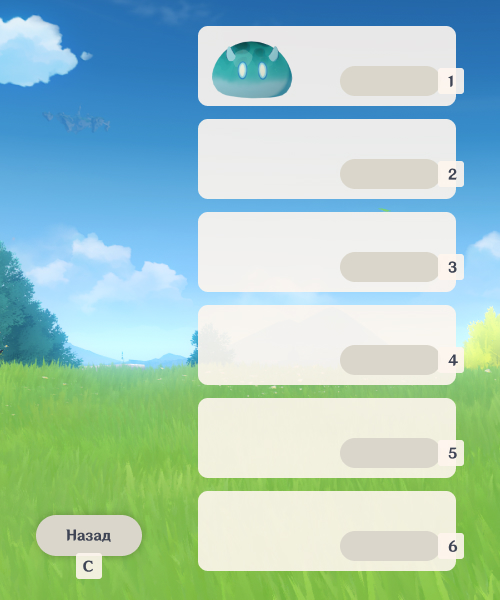
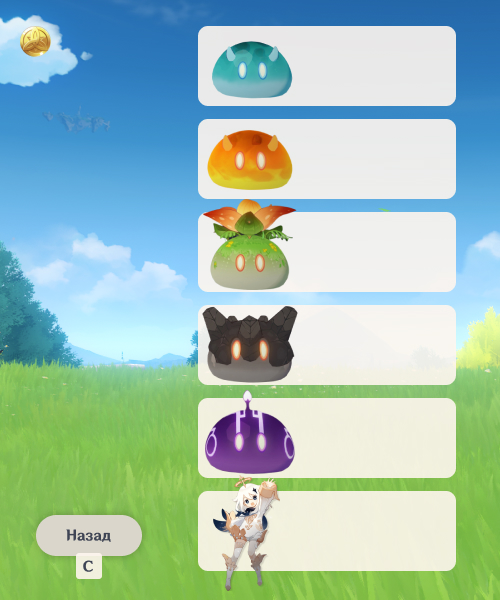
все скины и кнопки добавлены в магазин + доработка бд

diff --git a/start window.py b/start window.py
@@ -3,7 +3,7 @@ import sys
 
 import pygame
 
-from load_image import load_image, mora_in_db
+from functions import load_image, mora_in_db, mora_from_db, get_slime_name, get_skin_id, get_skins_bool
 
 pygame.font.init()
 pygame.init()
@@ -32,9 +32,12 @@ def start_screen():
                     shop_screen()
                 elif event.key == pygame.K_a:
                     play_screen()
+        count_mora = mora_from_db()
+        mora_count = myfont.render(f'{count_mora}', False, (254, 246, 238))
         image = pygame.image.load('data\\start.jpg')
         fon = pygame.transform.scale(image, (WIDTH, HEIGHT))
         screen.blit(fon, (0, 0))
+        screen.blit(mora_count, (200, 23))
         pygame.display.flip()
 
 
@@ -62,7 +65,29 @@ def shop_screen():
                     return
         image = pygame.image.load('data\\shop.jpg')
         fon = pygame.transform.scale(image, (WIDTH, HEIGHT))
+        count_mora = mora_from_db()
+        mora_count = myfont.render(f'{count_mora}', False, (254, 246, 238))
+        btns = pygame.sprite.Group()
+        skins = get_skins_bool()
+        skin_id = get_skin_id()
+        for i in range(1, 1 + len(skins)):
+            if i == skin_id:
+                sprite = pygame.sprite.Sprite()
+                sprite.image = load_image(f"skin_on.png")
+                sprite.rect = sprite.image.get_rect()
+                sprite.rect.x = 340
+                sprite.rect.y = 66 + (93 * (i - 1))
+                btns.add(sprite)
+            elif skins[i - 1]:
+                sprite = pygame.sprite.Sprite()
+                sprite.image = load_image(f"{i}not.png")
+                sprite.rect = sprite.image.get_rect()
+                sprite.rect.x = 340
+                sprite.rect.y = 66 + (93 * (i - 1))
+                btns.add(sprite)
         screen.blit(fon, (0, 0))
+        screen.blit(mora_count, (57, 23))
+        btns.draw(screen)
         pygame.display.flip()
 
 
@@ -72,7 +97,17 @@ def play_screen():
         all_sprites = pygame.sprite.Group()
         hero_img = load_image(name + '.png')
         if name == 'slime':
-            hero_img = pygame.transform.scale(hero_img, (130, 100))
+            hero_img = pygame.transform.scale(hero_img, (119, 100))
+        if name == 'slime_dendro':
+            hero_img = pygame.transform.scale(hero_img, (141, 137))
+        if name == 'slime_electro':
+            hero_img = pygame.transform.scale(hero_img, (117, 109))
+        if name == 'slime_geo':
+            hero_img = pygame.transform.scale(hero_img, (126, 100))
+        if name == 'slime_pyro':
+            hero_img = pygame.transform.scale(hero_img, (118, 83))
+        if name == 'paimon':
+            hero_img = pygame.transform.scale(hero_img, (100, 160))
         if name == 'mora':
             hero_img = pygame.transform.scale(hero_img, (30, 30))
         hero = pygame.sprite.Sprite(all_sprites)
@@ -125,7 +160,7 @@ def play_screen():
             y_pr = y
             screen.blit(fon, (0, 0))
             # pygame.draw.circle(screen, BLUE, (x, y), r)
-            hero = draw_hero(x, y, screen)
+            hero = draw_hero(x, y, screen, get_slime_name())
             for indx, pl in enumerate(platforms):
                 mora_col = 0
                 platform = draw_hero(pl[0], pl[1], screen, name='platform')
@@ -141,7 +176,7 @@ def play_screen():
                     count_mora += 10
                     moras[indx] = 0
             # отрисовка текста
-            textsurface = myfont.render(f'Мора: {count_mora}', False, (0, 0, 0))
+            textsurface = myfont.render(f'Мора: {count_mora}', False, (254, 246, 238))
             # сдвигаем платформы вниз
             for indx, _ in enumerate(platforms):
                 platforms[indx][1] += 1

diff --git a/functions.py b/functions.py
@@ -1,0 +1,70 @@
+import os
+import sys
+import pygame
+import sqlite3
+
+pygame.init()
+
+
+def load_image(name, colorkey=None):
+    fullname = os.path.join('data', name)
+    # если файл не существует, то выходим
+    if not os.path.isfile(fullname):
+        print(f"Файл с изображением '{fullname}' не найден")
+        sys.exit()
+    image = pygame.image.load(fullname)
+    if colorkey is not None:
+        image = image.convert()
+        if colorkey == -1:
+            colorkey = image.get_at((250, 250))
+        image.set_colorkey(colorkey)
+    else:
+        image = image.convert_alpha()
+    return image
+
+
+def mora_in_db(count):
+    con = sqlite3.connect("jump.db")
+    cur = con.cursor()
+    cur.execute(f"UPDATE mora SET count = count + {count}")
+    con.commit()
+    con.close()
+
+
+def mora_from_db():
+    con = sqlite3.connect("jump.db")
+    cur = con.cursor()
+    mora = cur.execute("SELECT count FROM mora").fetchone()
+    con.commit()
+    con.close()
+    return mora[0]
+
+
+def get_slime_name():
+    con = sqlite3.connect("jump.db")
+    cur = con.cursor()
+    name = cur.execute("SELECT name FROM skin").fetchone()
+    con.commit()
+    con.close()
+    return name[0]
+
+
+def get_skin_id():
+    con = sqlite3.connect("jump.db")
+    cur = con.cursor()
+    num = cur.execute("SELECT number FROM skin").fetchone()
+    con.commit()
+    con.close()
+    return num[0]
+
+
+def get_skins_bool():
+    con = sqlite3.connect("jump.db")
+    cur = con.cursor()
+    list1 = cur.execute("SELECT 'have or not' FROM slimes").fetchall()
+    con.commit()
+    con.close()
+    return list1
+
+
+pygame.quit()
